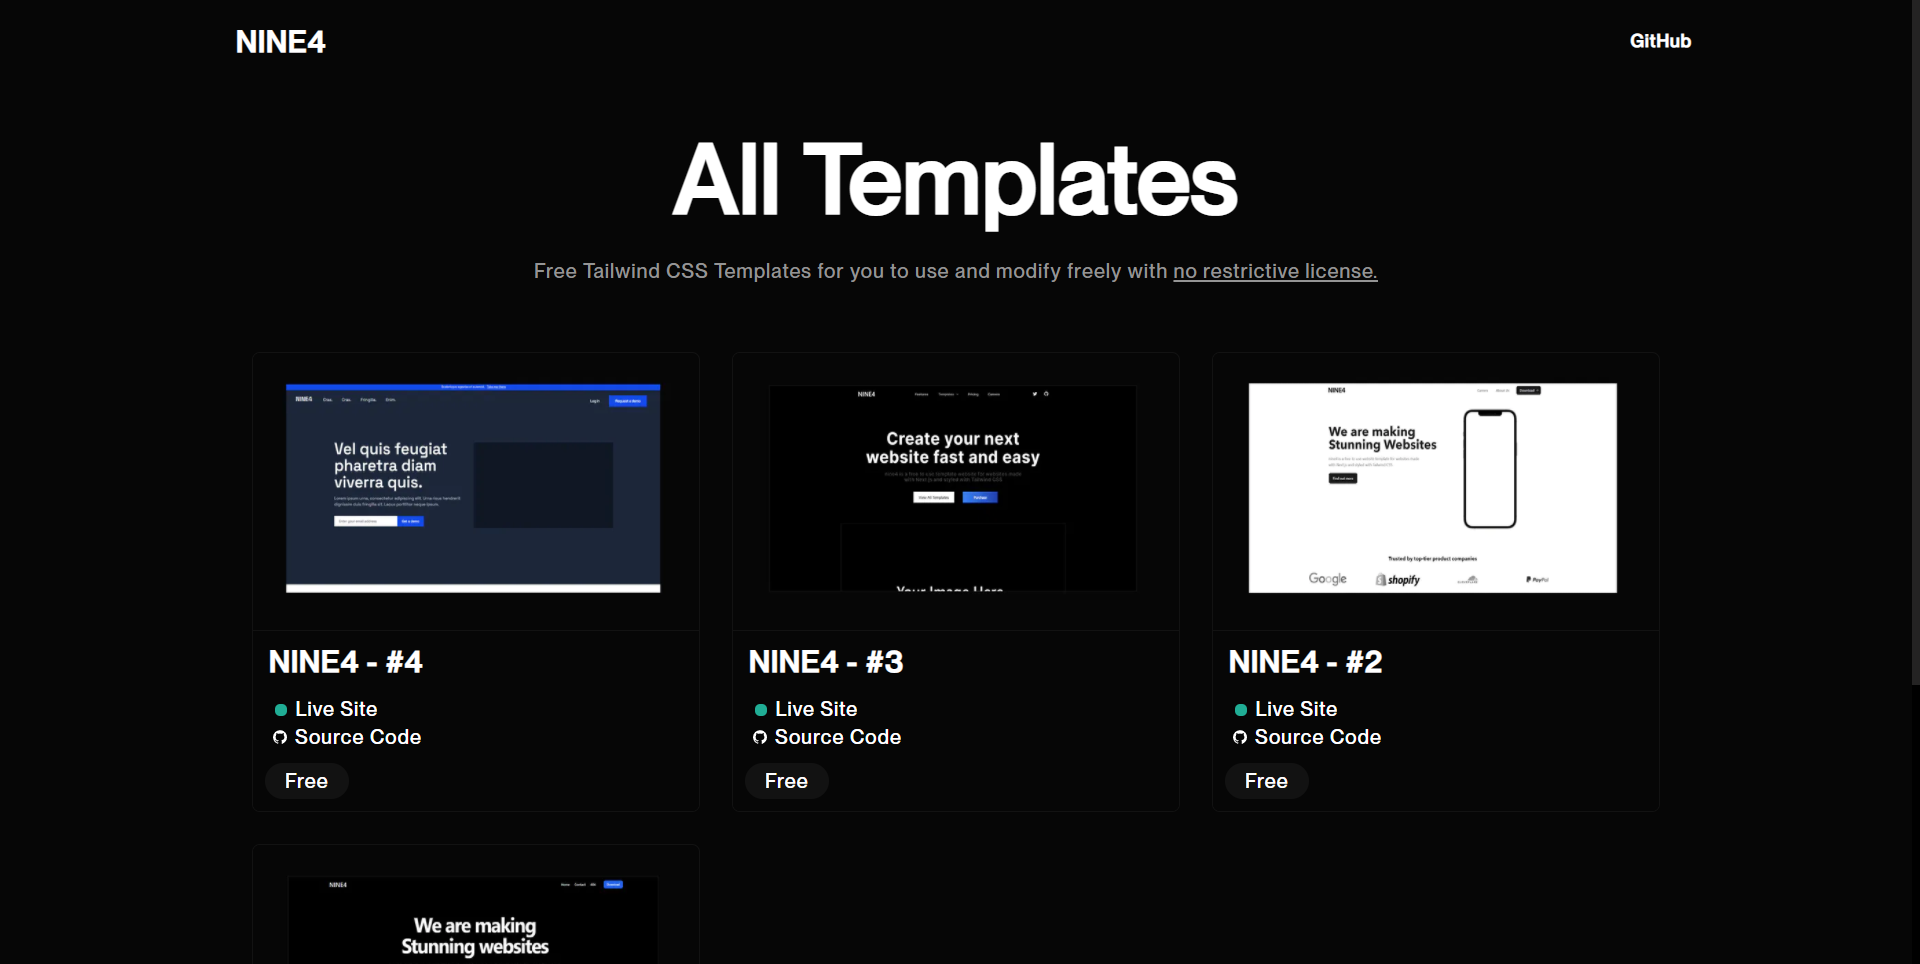
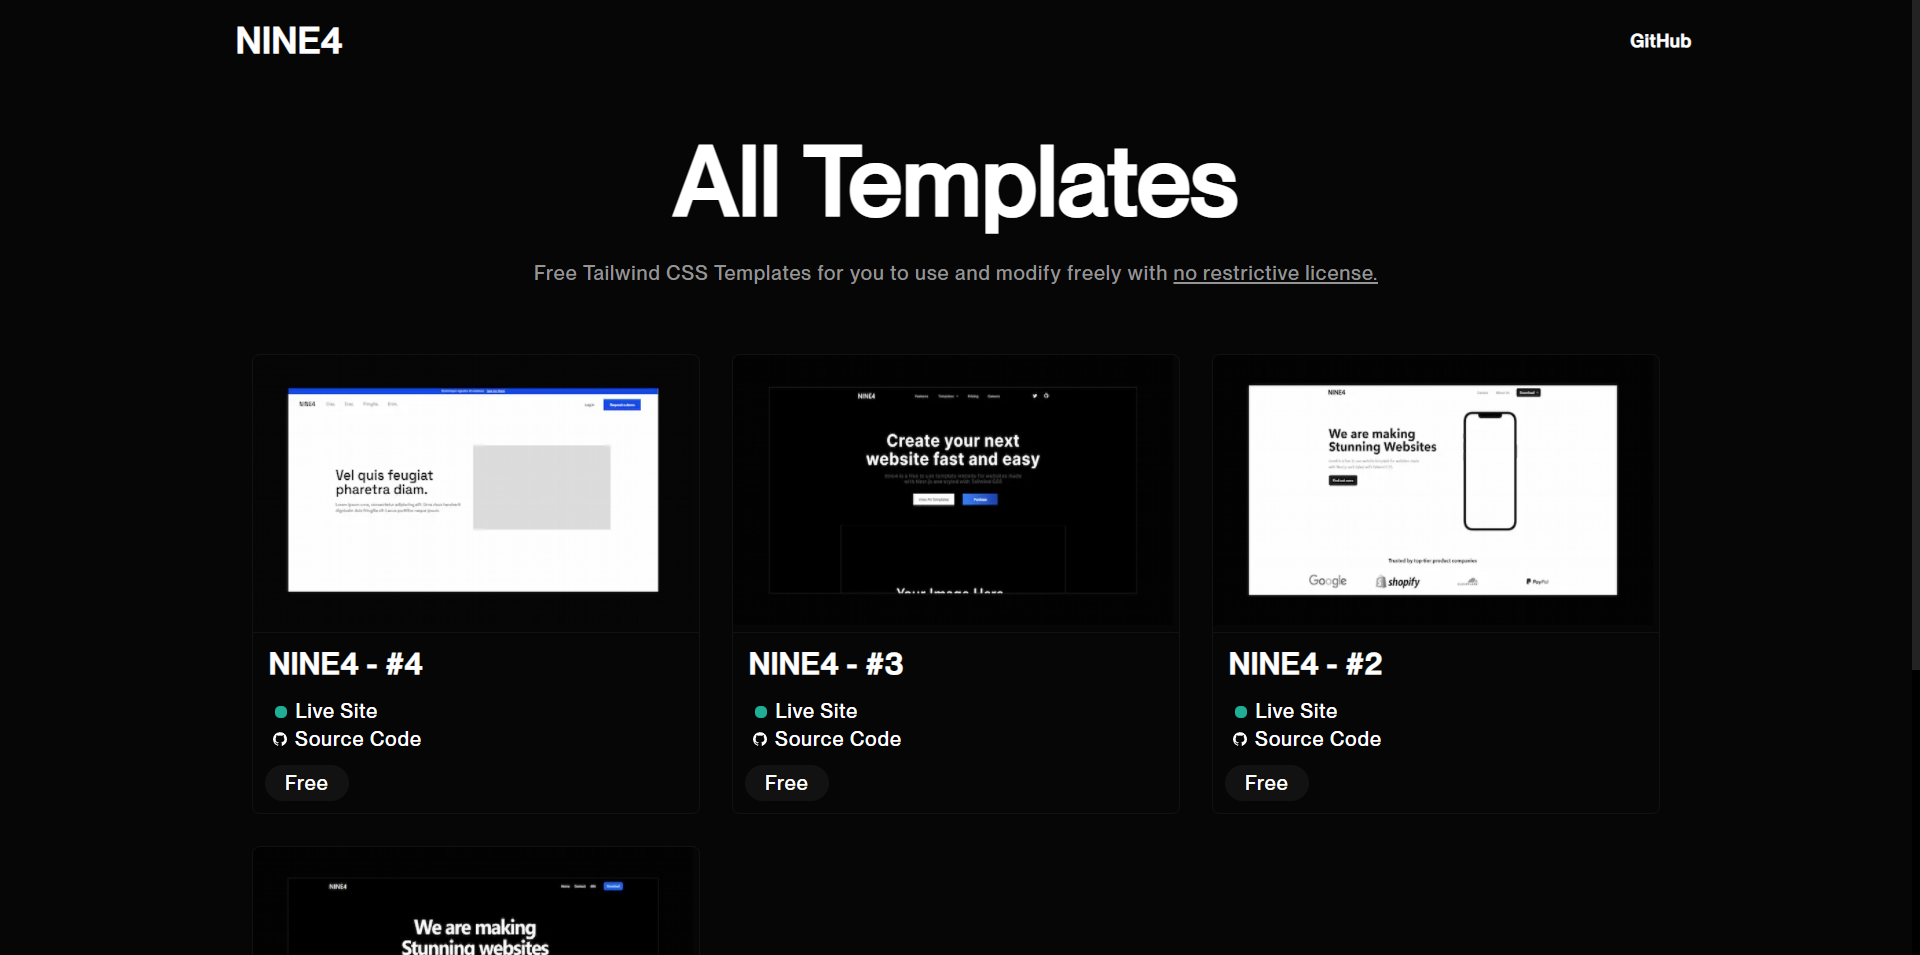
done(images): updated images

diff --git a/components/Main.tsx b/components/Main.tsx
@@ -23,7 +23,7 @@ export default function Main() {
                 <Image
                   alt="nine4-4"
                   className="block h-auto w-full"
-                  src="https://nine4.app/images/nine4_4.png"
+                  src="/images/nine4-4.png"
                   width={440}
                   height={270}
                 />
@@ -86,7 +86,7 @@ export default function Main() {
                 <Image
                   alt="nine4-3"
                   className="block h-auto w-full"
-                  src="https://nine4.app/images/nine4_3.png"
+                  src="/images/nine4-3.png"
                   width={440}
                   height={270}
                 />
@@ -149,7 +149,7 @@ export default function Main() {
                 <Image
                   alt="nine4-2"
                   className="border border-gray-700 block h-auto w-full"
-                  src="https://nine4.app/images/nine4_2.png"
+                  src="/images/nine4-2.png"
                   width={440}
                   height={270}
                 />
@@ -212,7 +212,7 @@ export default function Main() {
                 <Image
                   alt="nine4-1"
                   className="block h-auto w-full"
-                  src="https://nine4.app/images/nine4_1.png"
+                  src="/images/nine4-1.png"
                   width={440}
                   height={270}
                 />

diff --git a/components/Header.tsx b/components/Header.tsx
@@ -11,7 +11,7 @@ export default function Container() {
             href="/"
             className="text-lg font-semibold rounded-lg focus:outline-none focus:shadow-outline"
           >
-            <h1 className="text-4xl font-bold text-white uppercase md:text-md lg:text-3xl">
+            <h1 className="font-bold text-white uppercase md:text-md text-4xl">
               NINE4
             </h1>
           </a>
